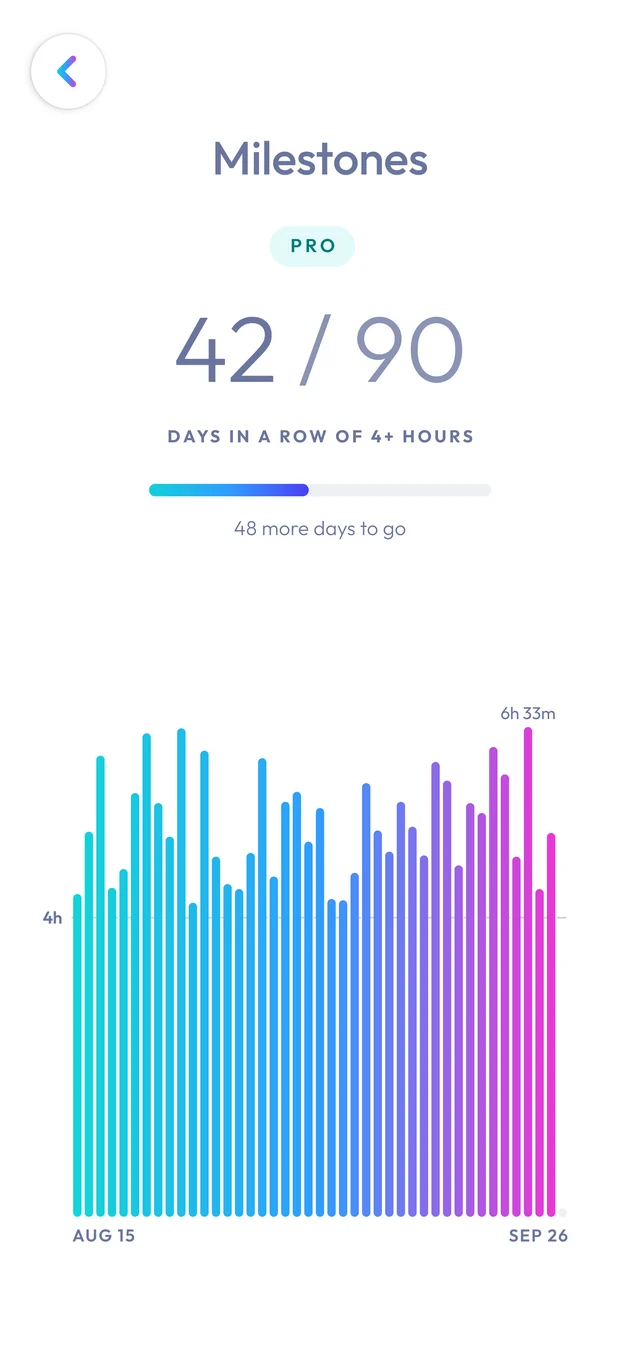
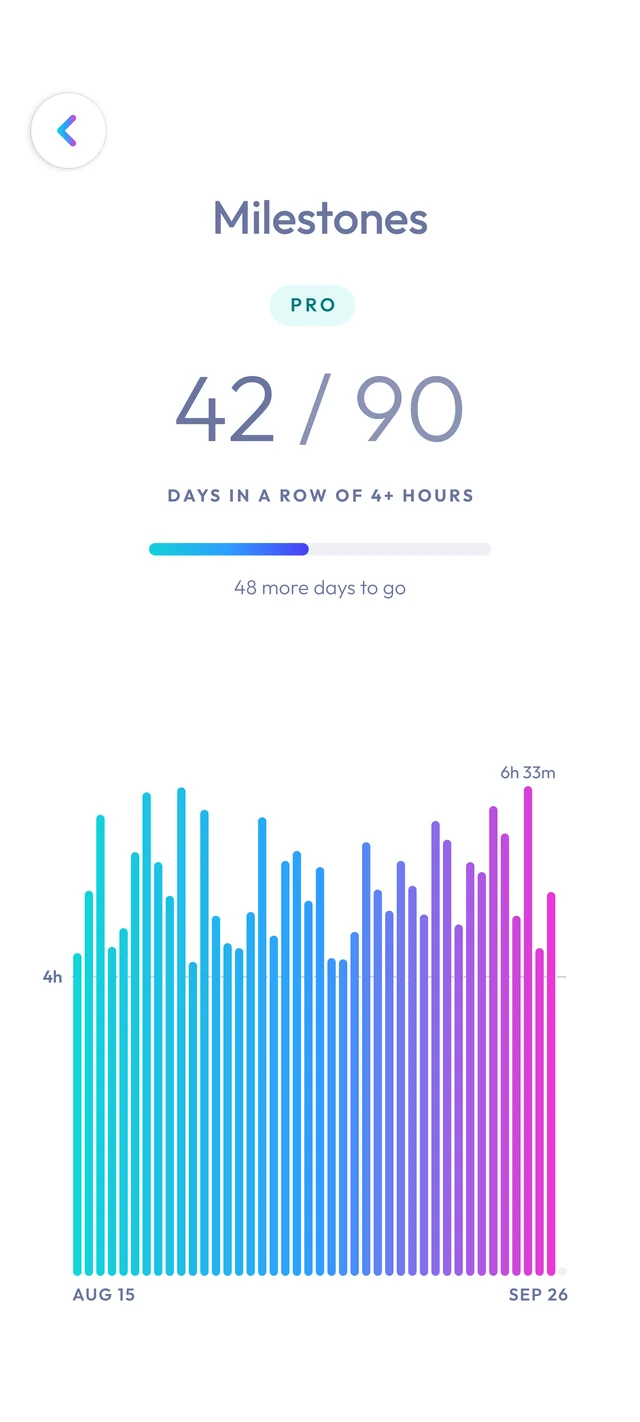
Screenshots keep the status bar's space, blanked, so nothing crowds the frame's corners

diff --git a/index.html b/index.html
@@ -179,7 +179,7 @@ footer nav { gap: 24px; font-size: 15px; flex-wrap: wrap; }
     </div>
     <div class="art">
       <div class="halo"></div>
-      <div class="phone"><img src="img/focus.webp" width="640" height="1363" alt="Magic Clock while focusing: 34 minutes of break available, 1 hour 55 minutes of focus time, and a graph of the session climbing."></div>
+      <div class="phone"><img src="img/focus.webp" width="640" height="1422" alt="Magic Clock while focusing: 34 minutes of break available, 1 hour 55 minutes of focus time, and a graph of the session climbing."></div>
     </div>
   </div>
 </section>
@@ -204,15 +204,15 @@ footer nav { gap: 24px; font-size: 15px; flex-wrap: wrap; }
     </div>
     <div class="steps">
       <div class="step">
-        <div class="phone sm"><img src="img/focus.webp" width="640" height="1363" loading="lazy" alt="Focusing: the break balance climbs in blue."></div>
+        <div class="phone sm"><img src="img/focus.webp" width="640" height="1422" loading="lazy" alt="Focusing: the break balance climbs in blue."></div>
         <div><h3><i style="background:var(--focus)"></i>Focus earns break</h3><p>Every twenty-five minutes of focus earns ten minutes of break, based on Pomodoro.</p></div>
       </div>
       <div class="step">
-        <div class="phone sm"><img src="img/break.webp" width="640" height="1363" loading="lazy" alt="On a break: 20 minutes left, the line falls in green."></div>
+        <div class="phone sm"><img src="img/break.webp" width="640" height="1422" loading="lazy" alt="On a break: 20 minutes left, the line falls in green."></div>
         <div><h3><i style="background:var(--break)"></i>Break spends it</h3><p>Scroll Instagram, watch YouTube, check Reddit, play a game, grab a coffee. It’s yours.</p></div>
       </div>
       <div class="step">
-        <div class="phone sm"><img src="img/over.webp" width="640" height="1363" loading="lazy" alt="Borrowed: almost 10 minutes over, the line dips below zero in red."></div>
+        <div class="phone sm"><img src="img/over.webp" width="640" height="1422" loading="lazy" alt="Borrowed: almost 10 minutes over, the line dips below zero in red."></div>
         <div><h3><i style="background:var(--owe)"></i>Overspend, work it back</h3><p>Use as much of your break as you like. If you overspend, you simply work it back.</p></div>
       </div>
     </div>
@@ -233,7 +233,7 @@ footer nav { gap: 24px; font-size: 15px; flex-wrap: wrap; }
           <h3>And eventually, you notice it worked.</h3>
           <p>You spend a sunny Sunday studying for an exam without complaining. You do your tax return without hesitation. You start enjoying exercise. You might still scroll — but now you do it on purpose instead of falling into it.</p>
         </div>
-        <div class="phone"><img src="img/miles.webp" width="640" height="1363" loading="lazy" alt="Milestones: 42 of 90 days in a row with 4 or more hours of focus."></div>
+        <div class="phone"><img src="img/miles.webp" width="640" height="1422" loading="lazy" alt="Milestones: 42 of 90 days in a row with 4 or more hours of focus."></div>
       </div>
     </div>
   </div>
@@ -268,7 +268,7 @@ footer nav { gap: 24px; font-size: 15px; flex-wrap: wrap; }
     </div>
     <div class="art">
       <div class="halo" style="background:radial-gradient(closest-side, rgba(182,43,240,.16), rgba(182,43,240,0))"></div>
-      <div class="phone"><img src="img/break.webp" width="640" height="1363" loading="lazy" alt="Magic Clock on a break."></div>
+      <div class="phone"><img src="img/break.webp" width="640" height="1422" loading="lazy" alt="Magic Clock on a break."></div>
     </div>
   </div>
 </section>
